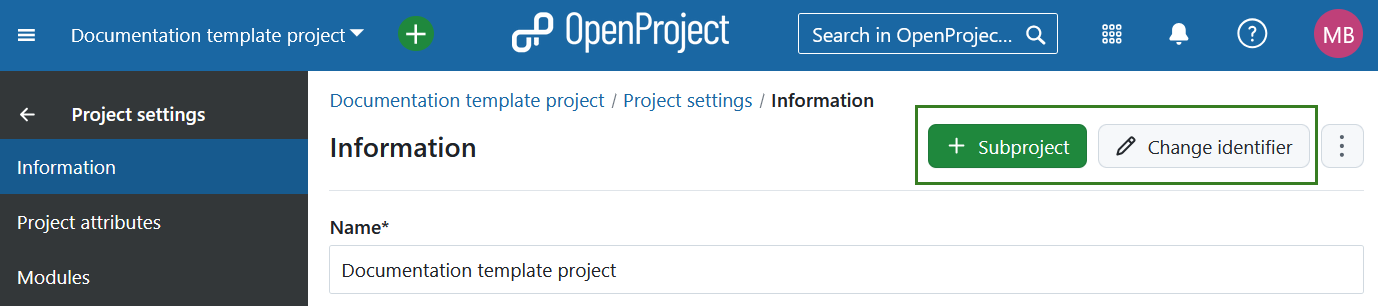
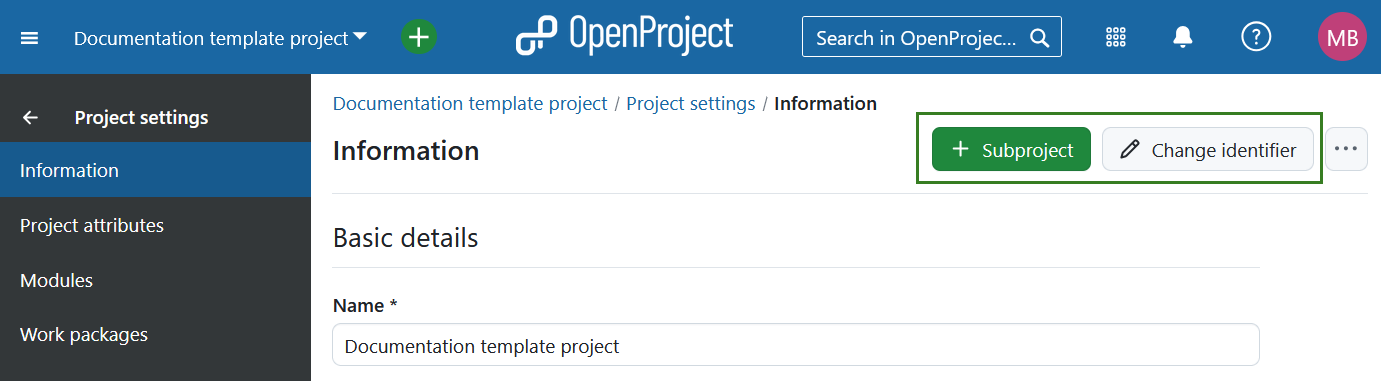
[#63800] Project settings UI changes  https://community.openproject.org/work_packages/63800

diff --git a/docs/user-guide/projects/README.md b/docs/user-guide/projects/README.md
@@ -42,7 +42,7 @@ To create a subproject for an existing project, navigate to [*Project settings*]
 
 Then follow the instructions to [create a new project](../../getting-started/projects/#create-a-new-project).
 
-![project settings subproject](project-settings-subproject.png)
+![A button to create a subproject under project settings in OpenProject](openproject_user_guide_projects_subproject_button.png)
 
 ## Project structure
 
@@ -79,37 +79,35 @@ OpenProject, for example, uses the projects to structure the different modules/p
 
 ## Project Settings
 
-You can specify further advanced settings for your project. Navigate to your project settings by [selecting a project](../../getting-started/projects/#open-an-existing-project), and click -> *Project settings* -> *Information*.
+You can specify further advanced settings for your project. Navigate to your project settings by [selecting a project](../../getting-started/projects/#open-an-existing-project), and click -> *Project settings* -> *Information*. Here you can: 
 
-- You can define whether the project should have a parent by selecting **Subproject of**. This way, you can [change the project hierarchy](#change-the-project-hierarchy).
+- Define whether the project should have a parent by selecting **Subproject of**. This way, you can [change the project hierarchy](#change-the-project-hierarchy).
 
 - Enter a detailed description for your project.
 
-- You see the default project **Identifier**. The identifier will be shown in the URL.
+- Set the default project **Identifier**. The identifier will be shown in the URL.
 
 > [!NOTE]
 > Changing the project identifier while the project is already being worked on can have major effects and is therefore not recommended. For example, repositories may not be loaded correctly and deep links may no longer work (since the project URL changes when the project identifier is changed).
 
-- You can set a project to **Public**. This means it can be accessed without signing in to OpenProject.
-- Click the green **Save** button to save your changes.
-- If you like, use the autocompleter to fill in the project attributes.
+- Set a project to **Public**. This means it can be accessed without signing in to OpenProject.
 
-![project information description status](project-information-description-status.png)
+  
+
+![Project information under project settings in OpenProject](openproject_user_guide_projects_project_settings_info.png)
 
 Find out more detailed information about the Project settings [here](project-settings).
 
 ### Change the project hierarchy
 
-To change the project's hierarchy, navigate to the [project settings](project-settings) -> *Information* and change the **Subproject of** field.
+To change the project's hierarchy, navigate to the [project settings](project-settings) -> *Information* and change the **Subproject of** in *Project relations* section.
 
-Press the blue **Save** button to apply your changes.
-
-![project settings information change hierarchy](project-settings-information-change-hierarchy.png)
+![project settings information change hierarchy](openproject_user_guide_projects_subproject_of.png)
 
 
 ### Set a project to public
 
-If you want to set a project to public, you can do so by ticking the box next to "Public" in the [project settings](project-settings) *->Information*.
+If you want to set a project to be public, you can do so by ticking the box next to "Public" in the [project settings](project-settings) *->Information*.
 
 Setting a project to public will make it accessible to all people within your OpenProject instance.
 

diff --git a/docs/user-guide/projects/project-settings/project-information/README.md b/docs/user-guide/projects/project-settings/project-information/README.md
@@ -11,18 +11,27 @@ keywords: project information
 
 To edit your project information in OpenProject select a project from the **Select a project** drop-down menu. Then navigate to *Project settings → Information* in the project menu on the left.
 
-You can configure the following settings:
+Project settings are grouped into three sections:
 
-1. Set a **name for your project**. The name will be displayed in the project list.
-2. Add a project **description**.
-3. This check-box sets a project to **public**. This ways users will be able to access the project without being a member of it.
-4. Set a **project status**. The project status can be displayed in the [project overview](../../../project-overview). If you want to set additional or different status options you can create and use a [project custom field](../../../../system-admin-guide/custom-fields/custom-fields-projects).
-5. Add a **project status description**. The status description will be shown on the [project overview](../../../project-overview) page.
-6. Select the **parent project**.
-7. Edit **project attributes**. 
-8. **Save** or **cancel** your changes.
+1. **Basic details**. Here you can edit: 
+
+    -  **Project name**. The name will be displayed in the project list.
+    -  Add a project **description**.
+
+2. **Project status**. Here you can: 
+
+   - Set a **project status**. The project status can be displayed in the [project overview](../../../project-overview). If you want to set additional or different status options you can create and use a [project custom field](../../../../system-admin-guide/custom-fields/custom-fields-projects).
+   - Add a **project status description**. The status description will be shown on the [project overview](../../../project-overview) page.
+
+3. **Project relations**, where you can select the **parent project**.
+
+
+**Save** your changes by clicking the **Update** button at the bottom of each respective section: 
 
 ![project-information](openproject_user_guide_project_settings_information.png)
+
+> [!NOTE]
+> After 16.0 release, project attributes can be edited directly on the project start page.
 
 Further, in the top right corner you can [add a subproject](../../#create-a-subproject) and edit the **project identifier**. This is the part of the project name shown in the URL, e.g. /demo-project.
 
@@ -31,6 +40,7 @@ Further, in the top right corner you can [add a subproject](../../#create-a-subp
 If you click the **three dot** icon, you will see a dropdown menu with the following options: 
 
 - [Copy a project](../../#copy-a-project)
+- [Make a project public](../../#set-a-project-to-public)
 - [Archive a project](../../#archive-a-project)
 - [Set a project as a template](../../project-templates) 
 - [Delete a project](../../#delete-a-project)
